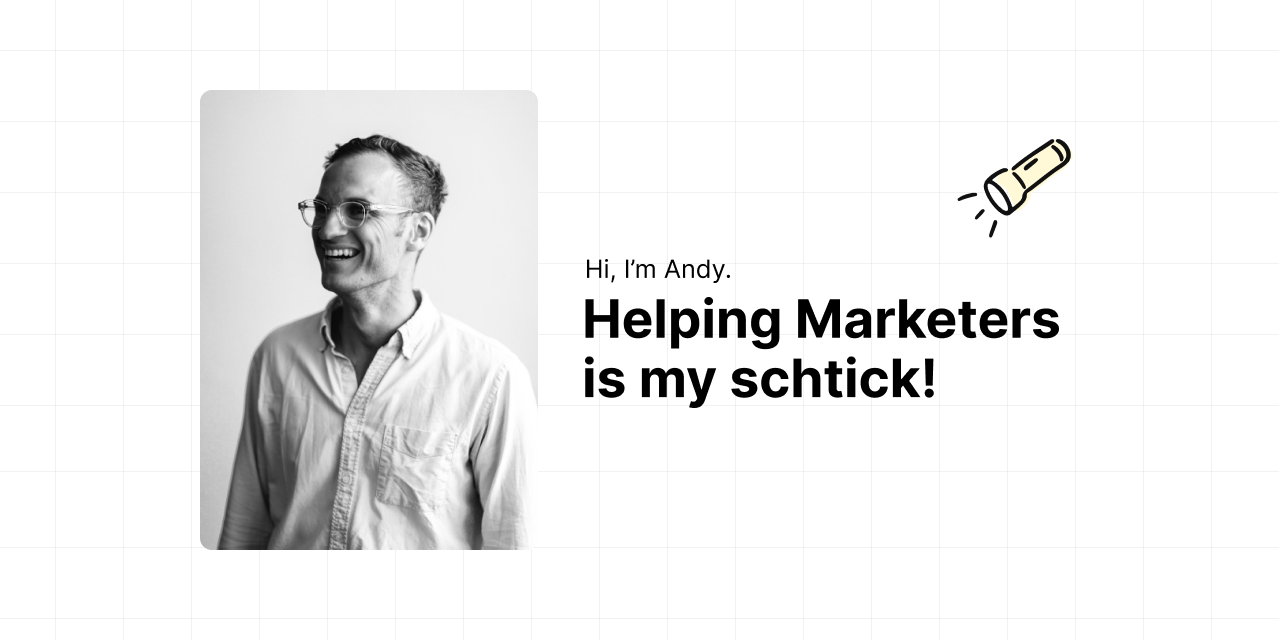
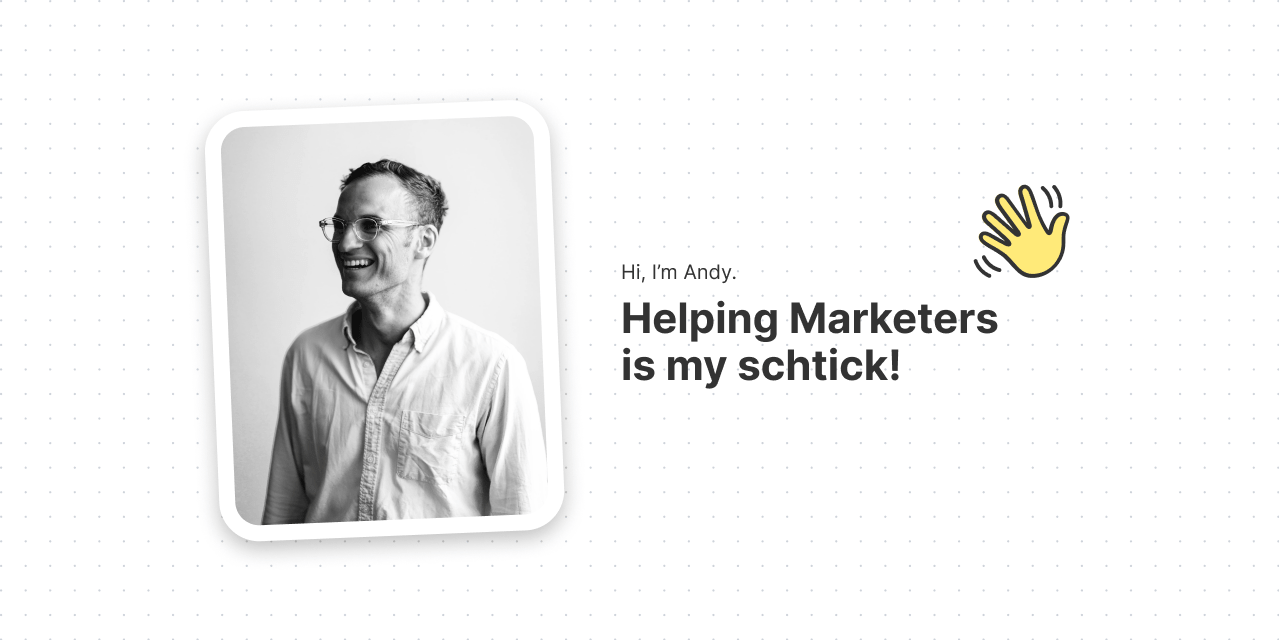
Update portraight styles and OG:Image

diff --git a/src/screens/home.tsx b/src/screens/home.tsx
@@ -97,14 +97,15 @@ const Body = styled('main', {
 });
 
 const ImagePortrait = styled(m.div, {
+  display: 'flex',
+  flexDirection: 'column',
   flex: '0 0 auto',
-  borderRadius: '$1',
+  borderRadius: '$2',
+  padding: '16px',
   overflow: 'hidden',
-  backgroundColor: '#fff9d7',
-
-  '& > *:first-child': {
-    transition: 'transform 500ms ease',
-  },
+  backgroundColor: '$background',
+  transform: 'rotate(-2.34deg)',
+  filter: 'drop-shadow(0px 8px 24px rgba(0, 0, 0, 0.25))',
 
   variants: {
     constraints: {
@@ -114,17 +115,38 @@ const ImagePortrait = styled(m.div, {
         maxWidth: '405px',
         minHeight: '250px',
         maxHeight: '330px',
-        '& > *:first-child': {
-          transform: 'translateY(-50px)',
-        },
       },
       'landscape': {
         width: '405px',
         minWidth: 'initial',
         maxWidth: 'initial',
-        height: '515px',
+        height: '506px',
         minHeight: 'initial',
         maxHeight: 'initial',
+      },
+    },
+  },
+});
+
+const ImagePortraitInner = styled(m.div, {
+  borderRadius: '$1',
+  overflow: 'hidden',
+  backgroundColor: '$yellow500',
+
+  '& > *:first-child': {
+    transition: 'transform 500ms ease',
+  },
+
+  variants: {
+    constraints: {
+      'portrait': {
+        width: '100%',
+        '& > *:first-child': {
+          transform: 'translateY(-50px)',
+        },
+      },
+      'landscape': {
+        width: '100%',
         '& > *:first-child': {
           transform: 'initial',
         },
@@ -170,13 +192,15 @@ export const HomeScreen = () => {
       <Root layout={{ '@initial': 'portrait', '@bp1': 'landscape' }}>
         <ContentContainer layout={{ '@initial': 'portrait', '@bp1': 'landscape' }}>
           <ImagePortrait constraints={{ '@initial': 'portrait', '@bp1': 'landscape' }}>
-            <Image
-              src="/img/andy-the-hero_gkqyt7.jpg"
-              alt="Andy Twomey"
-              layout="responsive"
-              width={2667}
-              height={3394}
-            />
+            <ImagePortraitInner constraints={{ '@initial': 'portrait', '@bp1': 'landscape' }}>
+              <Image
+                src="/img/andy-the-hero_gkqyt7.jpg"
+                alt="Andy Twomey"
+                layout="responsive"
+                width={2667}
+                height={3394}
+              />
+            </ImagePortraitInner>
           </ImagePortrait>
 
           <Body>

diff --git a/src/layouts/next-document.tsx b/src/layouts/next-document.tsx
@@ -14,7 +14,7 @@ export class DocumentLayout extends NextDocument {
           <meta property="og:type" content="website"/>
           <meta property="og:title" content="Andy Twomey - Helping Marketers is my schtick."/>
           <meta property="og:description" content="Hey, I'm Andy. This is my single page website which explains who I am and how you can follow along or contact me. "/>
-          <meta property="og:image" content="https://res.cloudinary.com/dpsoblb69/image/upload/v1620088330/img/andy-the-og_jcvwkd.png"/>
+          <meta property="og:image" content="https://res.cloudinary.com/dpsoblb69/image/upload/v1637015986/img/andy-the-og_g6l8ah.png"/>
 
           {/*  Twitter Meta Tags */}
           <meta name="twitter:card" content="summary_large_image"/>
@@ -22,7 +22,7 @@ export class DocumentLayout extends NextDocument {
           <meta property="twitter:url" content="https://andytwomey.com/"/>
           <meta name="twitter:title" content="Andy Twomey - Helping Marketers is my schtick."/>
           <meta name="twitter:description" content="Hey, I'm Andy. This is my single page website which explains who I am and how you can follow along or contact me. "/>
-          <meta name="twitter:image" content="https://res.cloudinary.com/dpsoblb69/image/upload/v1620088330/img/andy-the-og_jcvwkd.png"/>
+          <meta name="twitter:image" content="https://res.cloudinary.com/dpsoblb69/image/upload/v1637015986/img/andy-the-og_g6l8ah.png"/>
 
           {/* Icons */}
           <link rel="apple-touch-icon" sizes="180x180" href="/apple-touch-icon.png?v=3" />

diff --git a/src/stitches.config.ts b/src/stitches.config.ts
@@ -7,6 +7,7 @@ export const { css, styled, getCssString, theme } = createCss({
       foreground: 'hsl(0,0%,0%)',
       bgGridFg: 'hsl(215,14%,83%)',
       pink400: 'hsl(280,100%,87%)',
+      yellow500: 'hsl(51,100%,74%)',
     },
     space: {
       1: '5px',
@@ -41,7 +42,8 @@ export const { css, styled, getCssString, theme } = createCss({
     },
     radii: {
       round: '100px',
-      1: '12px'
+      1: '18px',
+      2: '24px'
     }
   },
   utils: {
